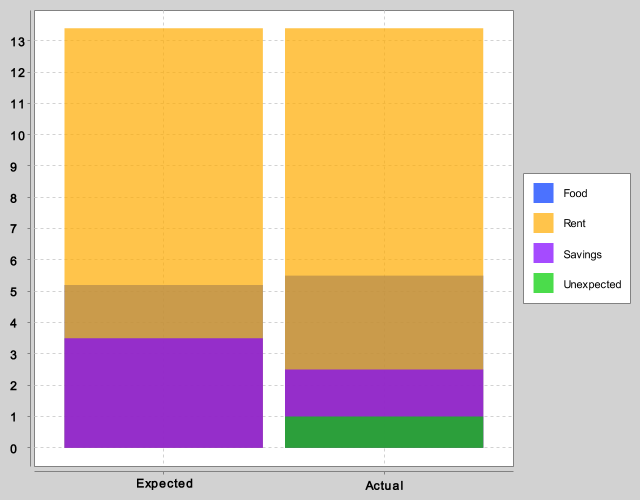
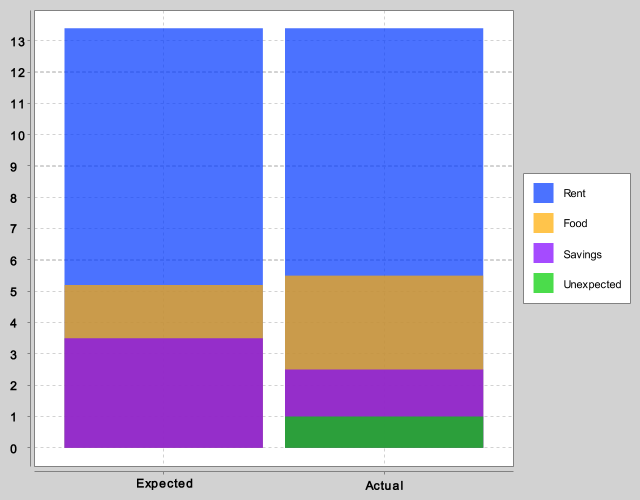
overlap != stacked

diff --git a/docs/tutorial.md b/docs/tutorial.md
@@ -112,6 +112,11 @@ This will render as follows:
 
 ![A basic XY-chart with styled error bars](imgs/styled-error-bars.png)
 
+Note that you _can_ attach styling for the entire chart via
+[render-options](render-options.md), and in some cases also attach a style based
+on input ordering. What you should use depends on whether it makes sense to
+bundle styling with data or not in your use case.
+
 ## Category Charts
 
 You can also render category charts with clj-xchart: This is done via
@@ -210,15 +215,15 @@ In this example, the series order is ordered alphanumerically, and the
 additional x-axis values Savings and Unexpected will be sorted alphanumerically
 as well.
 
-### Overlapping/Stacked category charts
+### Overlapping category charts
 
-Another way of representing the same data is by stacking the data on top of
+Another way of representing the same data is by overlapping the data on top of
 eachother. This is possible via the `:overlap?` styling option. In that case, we
 should transpose the data for it to make some sense:
 
 ```clj
-(def food {"Expected" 5.2, "Actual" 5.5})
 (def rent {"Expected" 13.4, "Actual" 13.4})
+(def food {"Expected" 5.2, "Actual" 5.5})
 (def savings {"Expected" 3.5, "Actual" 2.5})
 (def unexpected {"Actual" 1.0})
 
@@ -227,7 +232,21 @@ user=> (def chart (c/category-chart {"Food" food
                                      "Savings" savings
                                      "Unexpected" unexpected}
                                      {:overlap? true
-                                      :x-axis {:order ["Expected" "Actual"]}}))
+                                      :x-axis {:order ["Expected" "Actual"]}
+                                      :series-order ["Rent" "Food" "Savings" "Unexpected"]}))
+#'user/chart
+
+user=> (c/view chart)
 ```
 
-![Image showing a stacked category chart](imgs/category-chart-overlap.png)
+![Image showing an overlapped category chart](imgs/category-chart-overlap.png)
+
+Overlap is _not_ the same as a stacked chart, and it should be noted that
+overlaps could paint over another series completely. If we were to reorder the
+series order to ``["Food" "Rent" "Savings" "Unexpected"]`, then you get some
+interesting results:
+
+![Image showing a badly overlapped category chart](imgs/category-chart-overlap-bad.png)
+
+You rarely want to use overlap unless you know the data well and order it
+correctly.
